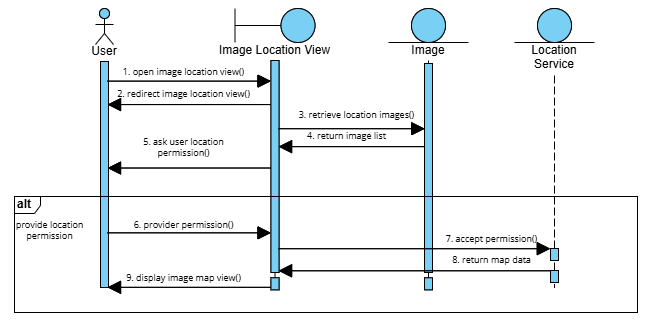
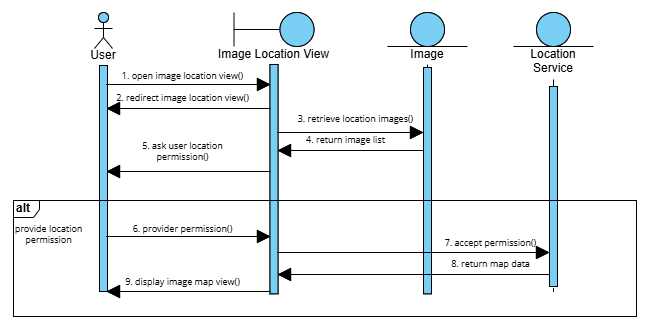
feat(3-3-15): all diagram + fix 3-3-14 sequence diagram

Changed region(s): [[0.0, 0.0, 0.9816, 0.9756]]

diff --git a/chapters/c3/usecases/3.3.15_usecase.tex b/chapters/c3/usecases/3.3.15_usecase.tex
@@ -1,1 +1,51 @@
 \subsection{Ca sử dụng thêm vị trí cho ảnh}
+
+\vspace{0.5cm}
+
+\noindent 
+\begin{tabularx}{\linewidth}{| l | X |} 
+\hline 
+\textbf{Mô tả} & Người dùng thêm vị trí cho ảnh. \\
+\hline 
+\textbf{Luồng cơ bản} & 1. Người dùng chọn nút thêm vị trí cho ảnh ở thanh công cụ dưới màn hình. \newline
+                       2. Hệ thống điều hướng đến trang thêm vị trí cho ảnh. \newline
+                       3. Hệ thống hiển thị hộp thoại cấp quyền thông tin vị trí hiện tại. \newline
+                       4. Người dùng cấp quyền truy cập vị trí hiện tại. \newline
+                       5. Hệ thống lấy thông tin vị trí hiện tại của người dùng và hiển thị trên bản đồ. \newline
+                       6. Người dùng chọn vị trí trên bản đồ. \newline
+                       7. Người dùng bấm nút xác nhận để thêm vị trí cho ảnh. \newline
+                       8. Hệ thống lưu vị trí cho ảnh và hiển thị thông báo thành công. \\
+\hline
+\textbf{Luồng thay thế} & - Người dùng tìm kiếm địa điểm thay vì tự chọn vị trí thủ công trên bản đồ. \newline
+                          - Hệ thống không lấy được dữ liệu địa điểm từ vị trí người dùng chọn trên bản đồ. \\
+\hline
+\textbf{Tiền điều kiện} & - Người dùng đã đăng nhập vào hệ thống. \newline
+                          - Có ít nhất 1 bức ảnh đã tải lên trong thư viện. \\
+\hline
+\textbf{Hậu điều kiện} & - Người dùng có thể xem vị trí hiện tại của bản thân. \newline
+                          - Người dùng có thể xem thông tin chi tiết của vị trí vừa chọn. \\
+\hline 
+\textbf{Yêu cầu phi chức năng} & - Hệ thống lấy dữ liệu của địa điểm không quá 2s. \newline
+                           - Hệ thống lấy được dữ liệu hiện tại vị trí người dùng (nếu được cấp quyền). \\
+\hline 
+\end{tabularx}
+
+\vspace{0.8cm}
+
+\noindent 
+\begin{tabular}{| c | c |}
+    \hline
+    \textbf{Biểu đồ hoạt động} & \textbf{Quan hệ} \\ 
+    \hline
+    \includegraphics[width=0.6\linewidth]{figures/c3/3-3-15-activity-diagram.png} 
+    &  
+    \includegraphics[width=0.35\linewidth]{figures/c3/3-3-15-relationship.png} \\ 
+    \hline
+\end{tabular}
+
+\begin{figure}[H]
+    \centering  
+    \includegraphics[width=1\textwidth]{figures/c3/3-3-15-sequence-diagram.png}
+    \caption{Biểu đồ tuần tự ca sử dụng thêm vị trí cho ảnh.}
+    \label{fig:3-3-15-sequence-diagram}
+\end{figure}
